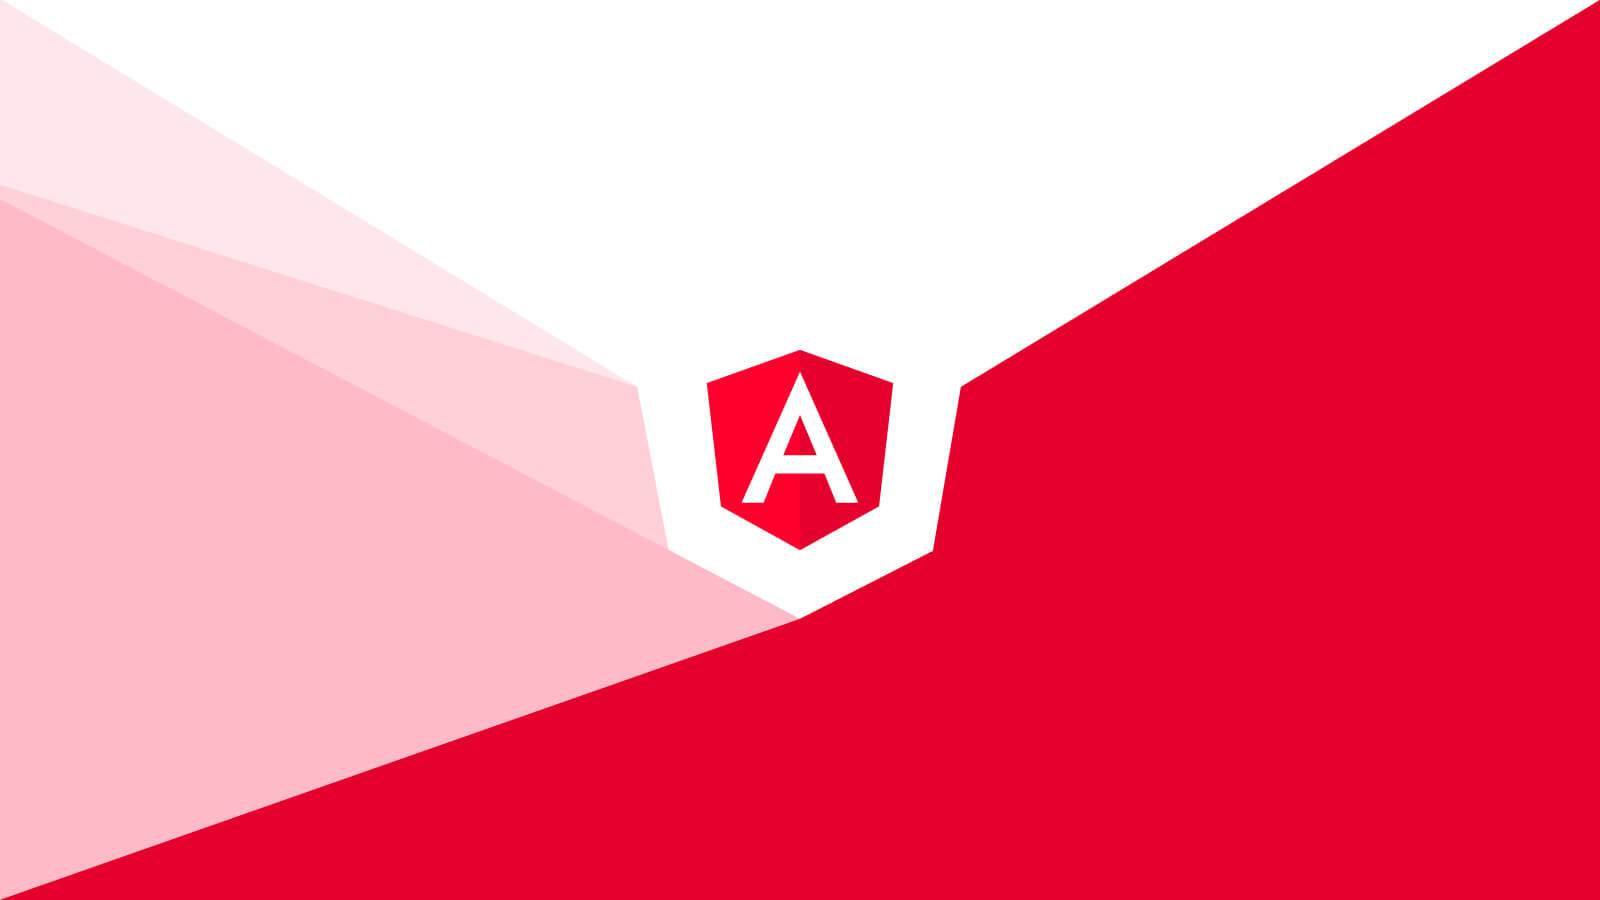
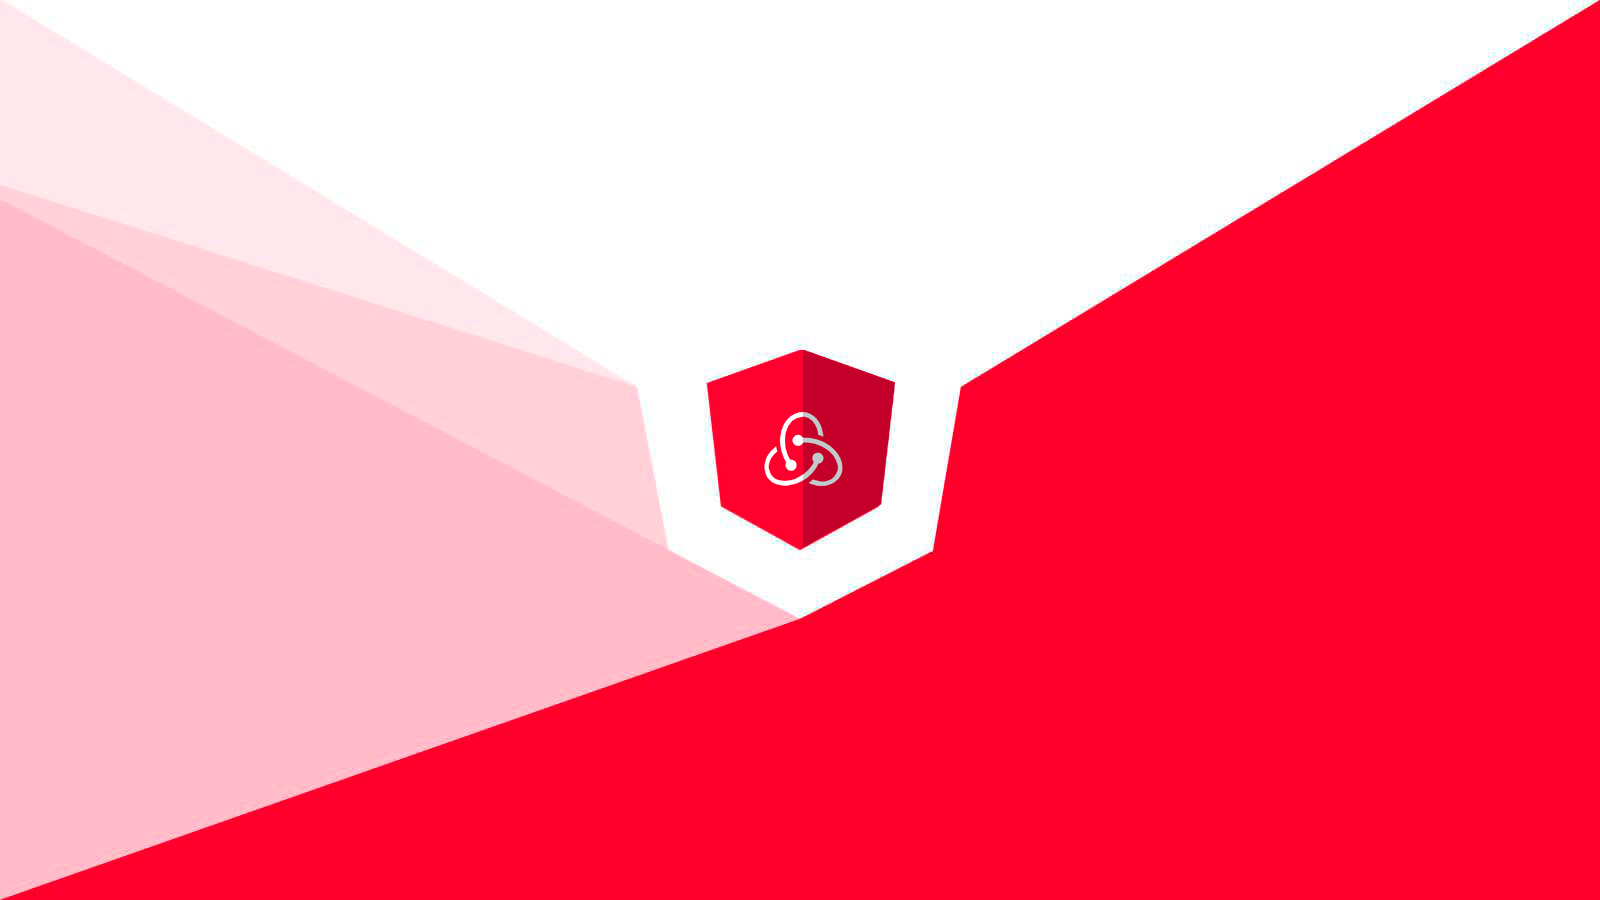
upload

diff --git a/src/app/counter/grandson-redux/grandson-redux.component.ts b/src/app/counter/grandson-redux/grandson-redux.component.ts
@@ -1,4 +1,4 @@
-import { Component, OnInit } from '@angular/core';
+import { Component, EventEmitter, Input, OnInit, Output } from '@angular/core';
 
 @Component({
   selector: 'app-grandson-redux',
@@ -7,9 +7,18 @@ import { Component, OnInit } from '@angular/core';
 })
 export class GrandsonReduxComponent implements OnInit {
 
+  @Input() counter: number = 0;
+
+  @Output() changeCounter = new EventEmitter<number>();
+
   constructor() { }
 
   ngOnInit(): void {
+  }
+
+  reset(number: number){
+    this.counter = number;
+    this.changeCounter.emit(number);
   }
 
 }

diff --git a/src/app/counter/children-redux/children-redux.component.html b/src/app/counter/children-redux/children-redux.component.html
@@ -1,1 +1,15 @@
-<p>children-redux works!</p>
+<h1>Contador Clildren Redux</h1>
+<hr>
+<div class="row">
+    <div class="col-5 text-end">
+        <button type="button" class="btn btn-danger" (click)="multiply()">Multiplicar x 2</button>
+    </div>
+    <div class="col-2 text-center">
+        <h2>{{ counter }}</h2>
+    </div>
+    <div class="col-5 text-start">
+        <button type="button" class="btn btn-danger" (click)="divide()">Dividir / 2</button>
+    </div>
+</div>
+<!-- <hr>
+<app-grandson-redux></app-grandson-redux> -->

diff --git a/src/app/components/navbar/navbar.component.html b/src/app/components/navbar/navbar.component.html
@@ -8,7 +8,7 @@
         <div class="collapse navbar-collapse" id="navbarNav">
             <ul class="navbar-nav">
                 <li class="nav-item">
-                    <a class="nav-link" routerLink="/" routerLinkActive="active">Input / Ouput</a>
+                    <a class="nav-link" routerLink="/default" routerLinkActive="active">Input / Ouput</a>
                 </li>
                 <li class="nav-item">
                     <a class="nav-link" routerLink="/redux" routerLinkActive="active">Redux</a>

diff --git a/src/app/counter/grandson-redux/grandson-redux.component.html b/src/app/counter/grandson-redux/grandson-redux.component.html
@@ -1,1 +1,13 @@
-<p>grandson-redux works!</p>
+<h1>Contador Grandsond Redux</h1>
+<hr>
+<div class="row">
+    <div class="col-5 text-end">
+        <button type="button" class="btn btn-danger" (click)="reset(0)">Reset 0</button>
+    </div>
+    <div class="col-2 text-center">
+        <h2>{{ counter }}</h2>
+    </div>
+    <div class="col-5 text-start">
+        <button type="button" class="btn btn-danger" (click)="reset(10)">Reset Default</button>
+    </div>
+</div>

diff --git a/src/app/counter/children-redux/children-redux.component.ts b/src/app/counter/children-redux/children-redux.component.ts
@@ -1,4 +1,4 @@
-import { Component, OnInit } from '@angular/core';
+import { Component, EventEmitter, Input, OnInit, Output } from '@angular/core';
 
 @Component({
   selector: 'app-children-redux',
@@ -7,9 +7,19 @@ import { Component, OnInit } from '@angular/core';
 })
 export class ChildrenReduxComponent implements OnInit {
 
+ counter: number = 0;
+
   constructor() { }
 
   ngOnInit(): void {
+  }
+
+  multiply() {
+
+  }
+
+  divide() {
+
   }
 
 }

diff --git a/src/app/app-routing.module.ts b/src/app/app-routing.module.ts
@@ -4,9 +4,9 @@ import { DefaultComponent } from './pages/default/default.component';
 import { ReduxComponent } from './pages/redux/redux.component';
 
 const routes: Routes = [
-  {path: '', component: DefaultComponent},
+  {path: 'default', component: DefaultComponent},
   {path: 'redux', component: ReduxComponent},
-  {path: '**', redirectTo: '', pathMatch: 'full'}
+  {path: '**', redirectTo: 'default', pathMatch: 'full'}
 ];
 
 @NgModule({

diff --git a/src/app/pages/redux/redux.component.ts b/src/app/pages/redux/redux.component.ts
@@ -1,10 +1,7 @@
 import { Component, OnInit } from '@angular/core';
 import { Store } from '@ngrx/store';
+import { AppState } from 'src/app/app.reducers';
 import { decrement, increment } from 'src/app/counter/counter.actions';
-
-interface AppState {
-  count: number
-}
 
 @Component({
   selector: 'app-redux',

diff --git a/src/app/counter/grandson/grandson.component.html b/src/app/counter/grandson/grandson.component.html
@@ -1,4 +1,4 @@
-<h1>Contador Grandsond</h1>
+<h1>Contador Grandsond Default (Input, Ouput)</h1>
 <hr>
 <div class="row">
     <div class="col-5 text-end">

diff --git a/src/app/counter/children/children.component.html b/src/app/counter/children/children.component.html
@@ -1,4 +1,4 @@
-<h1>Contador Clildren</h1>
+<h1>Contador Clildren Default (Input, Ouput)</h1>
 <hr>
 <div class="row">
     <div class="col-5 text-end">

diff --git a/src/app/app.reducers.ts b/src/app/app.reducers.ts
@@ -1,0 +1,3 @@
+export interface AppState {
+  count: number
+}
